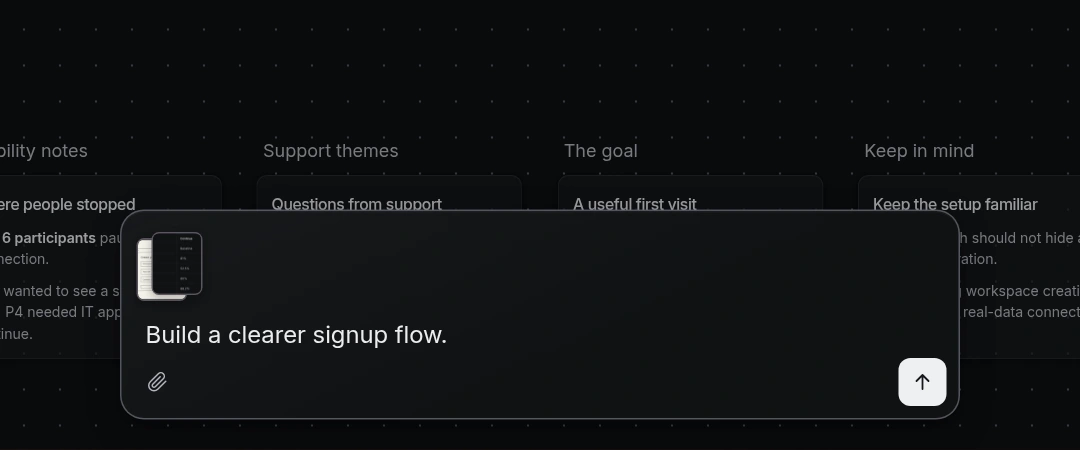
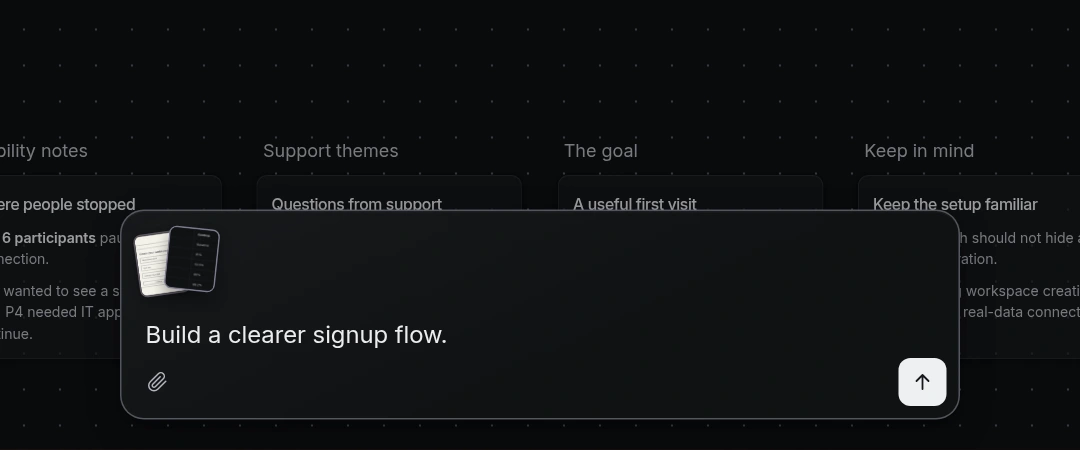
Restore collapsed fan and prevent hover clipping

Changed region(s): [[0.1222, 0.4978, 0.2139, 0.6844]]

diff --git a/studies/jarwiz-selection-stack/top-stack.css b/studies/jarwiz-selection-stack/top-stack.css
@@ -1,1 +1,1 @@
-.count-tabs{display:flex;gap:4px;padding:4px;border:1px solid #ffffff0d;border-radius:12px;background:#1c1c1c}.count-tabs button{padding:9px 20px;border:0;border-radius:8px;background:none;color:#969696;font-size:14px;transition:background .16s,color .16s}.count-tabs button[aria-pressed=true]{background:#303030;color:#f0f0f0}.count-hint{font-size:13px;color:#929292}.review-toolbar{margin-bottom:20px}.top-context{display:flex;align-items:center;min-height:54px;margin-bottom:8px}.top-stack{position:relative;min-width:0;max-width:100%}.top-stack[hidden]{display:none}.stack-summary{display:flex;align-items:center;gap:10px;min-height:54px;max-width:100%;padding:0 4px 0 0;border:0;border-radius:8px;background:none;text-align:left;color:#d7d8de}.stack-summary:hover .stack-label,.stack-summary[aria-expanded=true] .stack-label{color:#f1eff5}.stack-summary>svg{flex:0 0 12px;margin-left:2px;color:#94949f;transition:transform .18s}.stack-summary[aria-expanded=true]>svg{transform:rotate(180deg)}.mini-stack{position:relative;display:block;flex:0 0 auto;height:52px;width:64px;isolation:isolate}.top-stack[data-size=one] .mini-stack{width:44px}.top-stack[data-size=two] .mini-stack{width:54px}.stack-preview,.stack-tail{position:absolute;top:9px;width:34px;height:42px;border:1px solid #5b5660;border-radius:5px;box-shadow:0 2px 6px #0004;background:#25262b;pointer-events:auto}.stack-preview img{position:static;transform:none;box-shadow:none;border:0;display:block;width:100%;height:100%;object-fit:cover;object-position:top;border-radius:4px}.stack-preview:nth-child(1){left:2px;top:9px;z-index:1}.stack-preview:nth-child(2){left:12px;top:5px;z-index:2}.stack-preview:nth-child(3),.stack-tail{left:22px;top:1px;z-index:3}.top-stack[data-size=one] .stack-preview{left:2px}.top-stack[data-size=two] .stack-preview:nth-child(2){left:12px;top:5px}.stack-tail{display:grid;place-items:center;background:linear-gradient(155deg,#36343d,#27272e);font-size:12px;line-height:18px;font-weight:500;color:#eee9f5}.stack-copy{display:flex;flex-direction:column;gap:2px;min-width:0;max-width:330px}.stack-label{font:450 13px/18px 'Inter Variable',Arial,sans-serif;color:#d6d6df;white-space:nowrap}.stack-detail{font:400 11px/16px 'Inter Variable',Arial,sans-serif;color:#92949e;white-space:normal;text-wrap:pretty}.composer-footer .scope[hidden]{display:none}.stack-summary{gap:0;width:64px}.top-stack[data-size=one] .stack-summary{width:44px}.top-stack[data-size=two] .stack-summary{width:54px}.stack-preview,.stack-tail{transition:transform .2s cubic-bezier(.22,1,.36,1),border-color .16s,box-shadow .16s}.stack-preview:hover,.stack-tail:hover,.stack-summary:focus-visible .stack-preview:last-child,.stack-summary:focus-visible .stack-tail{transform:translateY(-3px);border-color:#b7b0d299;box-shadow:0 5px 9px #0005}.single-dismiss{left:29px;right:auto;top:1px;width:16px;height:16px;border-radius:5px}.single-dismiss[hidden]{display:none}.top-stack[data-size=one]:hover .single-dismiss,.top-stack[data-size=one]:focus-within .single-dismiss{opacity:1;pointer-events:auto}.context-popover{position:absolute;left:8px;bottom:calc(100% + 2px);width:70px;max-width:70px;max-height:var(--context-space,500px);padding:0;border:0;border-radius:0;background:none;box-shadow:none;transform:none}.context-popover:not([hidden]){display:flex;flex-direction:column;animation:vertical-dock-in .16s ease-out both}#context-list{display:flex;flex-direction:column;align-items:center;flex:0 1 auto;min-height:0;gap:8px;padding:12px 10px 8px;max-height:calc(var(--context-space,500px) - 2px);max-width:100%;overflow-x:hidden;overflow-y:auto;scrollbar-width:none;overscroll-behavior-y:contain}#context-list::-webkit-scrollbar{display:none}.context-entry{position:relative;display:block;flex:0 0 60px;width:48px;height:60px;padding:0;background:none;border-radius:7px}.context-entry:hover,.context-entry.is-hot{background:none}.entry-preview{position:relative;width:48px;height:60px;border:1px solid #ffffff20;border-radius:7px;background:#111214;box-shadow:0 2px 5px #0003;transform-origin:center;transition:transform .18s cubic-bezier(.22,1,.36,1),border-color .14s}.entry-preview img{display:block;width:100%;height:100%;object-fit:cover;object-position:top;border:0;border-radius:6px}.context-entry:hover .entry-preview,.context-entry:focus-within .entry-preview,.context-entry.is-hot .entry-preview{transform:translateY(-2px) scale(1.045);border-color:#b7b0d299}.preview-dismiss{position:absolute;right:-5px;top:-5px;z-index:2;display:grid;place-items:center;width:18px;height:18px;border:1px solid #635d70;border-radius:5px;background:#26262df5;color:#eee9f3;padding:0;opacity:0;pointer-events:none;transition:opacity .12s,background .12s}.preview-dismiss svg{width:10px;height:10px}.preview-dismiss:hover{background:#403b49}.preview-dismiss::after{content:"";position:absolute;inset:-3px}.context-entry:hover .preview-dismiss,.context-entry:focus-within .preview-dismiss,.context-entry.is-hot .preview-dismiss{opacity:1;pointer-events:auto}.is-arranging .preview-dismiss{opacity:0!important;pointer-events:none!important}#dock-labels{position:absolute;inset:0;pointer-events:none;transition:opacity .12s}.is-arranging #dock-labels{opacity:0}.dock-name{pointer-events:auto;cursor:default;position:absolute;right:calc(100% + 5px);width:max-content;max-width:var(--label-width,180px);padding:4px 8px;transform:translateY(-50%);border:1px solid #ffffff1a;border-radius:5px;background:#202127db;color:#d7d5df;font:400 11px/16px 'Inter Variable',Arial,sans-serif;white-space:normal;box-shadow:0 2px 5px #0003}.dock-name.is-hot{color:#fff;background:#2b2932ee;border-color:#b7b0d24d}.dock-name[hidden]{display:none}.context-popover[data-labels=right] .dock-name{left:calc(100% + 5px);right:auto}.stack-examples{display:grid;grid-template-columns:repeat(3,1fr);gap:24px;margin-top:48px}.example-image{display:block;padding:0;width:100%;border:1px solid #ffffff0c;background:#202123;border-radius:12px;overflow:hidden}.example-image:hover{border-color:#ffffff30}.example-image img{display:block;width:100%;height:auto;aspect-ratio:2.4;object-fit:cover}.stack-examples h2{margin:16px 0 6px;font-size:17px;line-height:24px;font-weight:400}.stack-examples p{font-size:14px;line-height:22px;color:#929292}@keyframes vertical-dock-in{from{opacity:0}to{opacity:1}}@media(max-width:650px){.review-toolbar{gap:10px}.count-tabs{width:100%}.count-tabs button{flex:1;padding:9px 12px}.count-hint{font-size:12px}.stack-summary{gap:8px}.stack-copy{max-width:none}.top-context{min-height:56px}.stack-examples{grid-template-columns:1fr;gap:28px;margin-top:32px}.review-footer{font-size:12px}.page-header p{max-width:320px}}@media(hover:none){.preview-dismiss{opacity:1;pointer-events:auto}}@media(prefers-reduced-motion:reduce){.context-popover{animation:none!important}.entry-preview{transition:none!important}}
+.count-tabs{display:flex;gap:4px;padding:4px;border:1px solid #ffffff0d;border-radius:12px;background:#1c1c1c}.count-tabs button{padding:9px 20px;border:0;border-radius:8px;background:none;color:#969696;font-size:14px;transition:background .16s,color .16s}.count-tabs button[aria-pressed=true]{background:#303030;color:#f0f0f0}.count-hint{font-size:13px;color:#929292}.review-toolbar{margin-bottom:20px}.top-context{display:flex;align-items:center;min-height:54px;margin-bottom:8px}.top-stack{position:relative;min-width:0;max-width:100%}.top-stack[hidden]{display:none}.stack-summary{display:flex;align-items:center;gap:10px;min-height:54px;max-width:100%;padding:0 4px 0 0;border:0;border-radius:8px;background:none;text-align:left;color:#d7d8de}.stack-summary:hover .stack-label,.stack-summary[aria-expanded=true] .stack-label{color:#f1eff5}.stack-summary>svg{flex:0 0 12px;margin-left:2px;color:#94949f;transition:transform .18s}.stack-summary[aria-expanded=true]>svg{transform:rotate(180deg)}.mini-stack{position:relative;display:block;flex:0 0 auto;height:52px;width:76px;isolation:isolate}.top-stack[data-size=one] .mini-stack{width:44px}.top-stack[data-size=two] .mini-stack{width:62px}.stack-preview,.stack-tail{position:absolute;top:5px;width:34px;height:42px;border:1px solid #5b5660;border-radius:5px;box-shadow:0 2px 6px #0004;background:#25262b;pointer-events:auto}.stack-preview img{position:static;transform:none;box-shadow:none;border:0;display:block;width:100%;height:100%;object-fit:cover;object-position:top;border-radius:4px}.stack-preview:nth-child(1){left:2px;z-index:1;--fan-angle:-8deg}.stack-preview:nth-child(2){left:18px;z-index:2;--fan-angle:1deg}.stack-preview:nth-child(3),.stack-tail{left:36px;z-index:3;--fan-angle:8deg}.top-stack[data-size=one] .stack-preview{left:2px;--fan-angle:0deg}.top-stack[data-size=two] .stack-preview:nth-child(2){left:22px;--fan-angle:6deg}.top-stack.is-open .mini-stack .stack-preview,.top-stack.is-open .mini-stack .stack-tail{--fan-angle:0deg}.context-region:not(.is-hidden)>.context-clip{overflow:visible}.stack-tail{display:grid;place-items:center;background:linear-gradient(155deg,#36343d,#27272e);font-size:12px;line-height:18px;font-weight:500;color:#eee9f5}.stack-copy{display:flex;flex-direction:column;gap:2px;min-width:0;max-width:330px}.stack-label{font:450 13px/18px 'Inter Variable',Arial,sans-serif;color:#d6d6df;white-space:nowrap}.stack-detail{font:400 11px/16px 'Inter Variable',Arial,sans-serif;color:#92949e;white-space:normal;text-wrap:pretty}.composer-footer .scope[hidden]{display:none}.stack-summary{gap:0;width:76px}.top-stack[data-size=one] .stack-summary{width:44px}.top-stack[data-size=two] .stack-summary{width:62px}.stack-preview,.stack-tail{transform:rotate(var(--fan-angle,0deg));transition:transform .2s cubic-bezier(.22,1,.36,1),border-color .16s,box-shadow .16s}.stack-preview:hover,.stack-tail:hover,.stack-summary:focus-visible .stack-preview:last-child,.stack-summary:focus-visible .stack-tail{transform:translateY(-3px) rotate(var(--fan-angle,0deg));border-color:#b7b0d299;box-shadow:0 5px 9px #0005}.single-dismiss[hidden]{display:none}.top-stack[data-size=one]:hover .single-dismiss,.top-stack[data-size=one]:focus-within .single-dismiss{opacity:1;pointer-events:auto}.context-popover{position:absolute;left:8px;bottom:calc(100% + 2px);width:70px;max-width:70px;max-height:var(--context-space,500px);padding:0;border:0;border-radius:0;background:none;box-shadow:none;transform:none}.context-popover:not([hidden]){display:flex;flex-direction:column;animation:vertical-dock-in .16s ease-out both}#context-list{display:flex;flex-direction:column;align-items:center;flex:0 1 auto;min-height:0;gap:8px;padding:12px 10px 8px;max-height:calc(var(--context-space,500px) - 2px);max-width:100%;overflow-x:hidden;overflow-y:auto;scrollbar-width:none;overscroll-behavior-y:contain}#context-list::-webkit-scrollbar{display:none}.context-entry{position:relative;display:block;flex:0 0 60px;width:48px;height:60px;padding:0;background:none;border-radius:7px}.context-entry:hover,.context-entry.is-hot{background:none}.entry-preview{position:relative;width:48px;height:60px;border:1px solid #ffffff20;border-radius:7px;background:#111214;box-shadow:0 2px 5px #0003;transform-origin:center;transition:transform .18s cubic-bezier(.22,1,.36,1),border-color .14s}.entry-preview img{display:block;width:100%;height:100%;object-fit:cover;object-position:top;border:0;border-radius:6px}.context-entry:hover .entry-preview,.context-entry:focus-within .entry-preview,.context-entry.is-hot .entry-preview{transform:translateY(-2px) scale(1.045);border-color:#b7b0d299}.preview-dismiss{position:absolute;right:-5px;top:-5px;z-index:2;display:grid;place-items:center;width:18px;height:18px;border:1px solid #635d70;border-radius:5px;background:#26262df5;color:#eee9f3;padding:0;opacity:0;pointer-events:none;transition:opacity .12s,background .12s}.preview-dismiss.single-dismiss{left:29px;right:auto;top:1px;width:16px;height:16px;border-radius:5px}.preview-dismiss svg{width:10px;height:10px}.preview-dismiss:hover{background:#403b49}.preview-dismiss::after{content:"";position:absolute;inset:-3px}.context-entry:hover .preview-dismiss,.context-entry:focus-within .preview-dismiss,.context-entry.is-hot .preview-dismiss{opacity:1;pointer-events:auto}.is-arranging .preview-dismiss{opacity:0!important;pointer-events:none!important}#dock-labels{position:absolute;inset:0;pointer-events:none;transition:opacity .12s}.is-arranging #dock-labels{opacity:0}.dock-name{pointer-events:auto;cursor:default;position:absolute;right:calc(100% + 5px);width:max-content;max-width:var(--label-width,180px);padding:4px 8px;transform:translateY(-50%);border:1px solid #ffffff1a;border-radius:5px;background:#202127db;color:#d7d5df;font:400 11px/16px 'Inter Variable',Arial,sans-serif;white-space:normal;box-shadow:0 2px 5px #0003}.dock-name.is-hot{color:#fff;background:#2b2932ee;border-color:#b7b0d24d}.dock-name[hidden]{display:none}.context-popover[data-labels=right] .dock-name{left:calc(100% + 5px);right:auto}.stack-examples{display:grid;grid-template-columns:repeat(3,1fr);gap:24px;margin-top:48px}.example-image{display:block;padding:0;width:100%;border:1px solid #ffffff0c;background:#202123;border-radius:12px;overflow:hidden}.example-image:hover{border-color:#ffffff30}.example-image img{display:block;width:100%;height:auto;aspect-ratio:2.4;object-fit:cover}.stack-examples h2{margin:16px 0 6px;font-size:17px;line-height:24px;font-weight:400}.stack-examples p{font-size:14px;line-height:22px;color:#929292}@keyframes vertical-dock-in{from{opacity:0}to{opacity:1}}@media(max-width:650px){.review-toolbar{gap:10px}.count-tabs{width:100%}.count-tabs button{flex:1;padding:9px 12px}.count-hint{font-size:12px}.stack-summary{gap:8px}.stack-copy{max-width:none}.top-context{min-height:56px}.stack-examples{grid-template-columns:1fr;gap:28px;margin-top:32px}.review-footer{font-size:12px}.page-header p{max-width:320px}}@media(hover:none){.preview-dismiss{opacity:1;pointer-events:auto}}@media(prefers-reduced-motion:reduce){.context-popover{animation:none!important}.entry-preview{transition:none!important}}

diff --git a/studies/jarwiz-selection-stack/index.html b/studies/jarwiz-selection-stack/index.html
@@ -1,11 +1,11 @@
-<!doctype html><html lang="en"><head><meta charset="utf-8"><meta name="viewport" content="width=device-width,initial-scale=1"><meta name="robots" content="noindex"><title>Jarwiz · Stack above the prompt</title><link rel="stylesheet" href="./style.css?v=1"><link rel="stylesheet" href="./top-stack.css?v=anchored-8"><link rel="stylesheet" href="./bloom.css"></head><body><main>
-<header class="page-header"><div><h1>A bigger stack, above the prompt.</h1><p>Click to arrange the cards above the stack. Click the stack again to collapse.</p></div><a class="case-link" href="../jarwiz-selection-composer/">Previous options ↗</a></header>
+<!doctype html><html lang="en"><head><meta charset="utf-8"><meta name="viewport" content="width=device-width,initial-scale=1"><meta name="robots" content="noindex"><title>Jarwiz · Stack above the prompt</title><link rel="stylesheet" href="./style.css?v=1"><link rel="stylesheet" href="./top-stack.css?v=fan-9"><link rel="stylesheet" href="./bloom.css"></head><body><main>
+<header class="page-header"><div><h1>A bigger stack, above the prompt.</h1><p>Click the fan to straighten its cards into a column. Click again to collapse.</p></div><a class="case-link" href="../jarwiz-selection-composer/">Previous options ↗</a></header>
 <div class="review-toolbar"><div class="count-tabs" role="group" aria-label="Preview selected card count"><button data-count="1" aria-pressed="true">1 card</button><button data-count="2" aria-pressed="false">2 cards</button><button data-count="5" aria-pressed="false">5 cards</button></div><p class="count-hint">Click the stack to arrange its cards vertically.</p></div>
 <div id="study-panel" aria-label="Selected-card composer prototype" class="study-frame"><div class="browser"><div class="chrome" aria-hidden="true"><i></i><i></i><i></i></div><div class="app" id="app" data-variant="top"><div class="tl-canvas" id="canvas"><div class="tl-background"></div><div class="selection-group" aria-hidden="true"></div><div id="sources" role="listbox" aria-label="Board cards" aria-multiselectable="true"></div><div id="marquee" aria-hidden="true"></div></div><div class="product-logo" aria-label="Jarwiz"><svg width="19" height="19" viewBox="0 0 24 24" aria-hidden="true"><path d="M12 1c1.7 7.4 3.6 9.3 11 11-7.4 1.7-9.3 3.6-11 11C10.3 15.6 8.4 13.7 1 12c7.4-1.7 9.3-3.6 11-11Z" fill="currentColor"/></svg></div>
 <form class="composer jz-promptbar" id="composer" aria-label="Ask Jarwiz"><div id="context-region" class="context-region"><div class="context-clip"><div class="top-context"><div class="top-stack" id="stack-group"><button class="stack-summary" id="stack-control" type="button" aria-expanded="false" aria-controls="context-popover"><span class="mini-stack" id="stack-previews" aria-hidden="true"></span></button><button class="preview-dismiss single-dismiss" id="single-dismiss" type="button" hidden></button></div></div></div></div><div class="writing"><textarea id="prompt" rows="1" aria-label="Your prompt" placeholder="What would you like to make from these?">Build a clearer signup flow.</textarea></div><div class="composer-footer"><button class="icon-button attach" type="button" aria-label="Attach a file" title="File upload is outside this selection study"><svg width="14" height="14" viewBox="0 0 24 24" fill="none" stroke="currentColor" stroke-width="1.7" stroke-linecap="round" stroke-linejoin="round" aria-hidden="true"><path d="m21.44 11.05-9.19 9.19a6 6 0 0 1-8.49-8.49l9.19-9.19a4 4 0 0 1 5.66 5.66l-9.2 9.19a2 2 0 0 1-2.83-2.83l8.49-8.48"/></svg></button><span class="scope" id="scope" hidden>Board context</span><span class="footer-space"></span><button class="send" id="send" type="submit" aria-label="Send prompt" title="Preview this request"><span class="send-label">Generating</span><svg class="send-arrow" width="16" height="16" viewBox="0 0 24 24" fill="none" stroke="currentColor" stroke-width="1.8" stroke-linecap="round" stroke-linejoin="round" aria-hidden="true"><path d="M12 19V5m-6 6 6-6 6 6"/></svg><span class="send-stop" aria-hidden="true"></span></button></div><div class="context-popover" id="context-popover" hidden><div id="context-list" role="list" aria-label="Selected cards"></div><div id="dock-labels" aria-hidden="true"></div></div></form>
 </div></div></div>
 
 <div class="review-footer"><p>Titles sit beside the open stack. Your prompt stays intact.</p><p id="review-status" role="status">1 card selected</p></div>
-<section class="stack-examples" aria-label="Single, two and more than three selected cards"><article><button class="example-image" data-count="1" aria-label="Try one card"><img src="./assets/one-card.webp?v=anchored-8" alt="One selected card is shown as a single larger preview above the prompt" width="720" height="300"></button><h2>One card</h2><p>Hover the preview to remove it directly.</p></article><article><button class="example-image" data-count="2" aria-label="Try two cards"><img src="./assets/two-cards.webp?v=anchored-8" alt="Two selected cards overlap in a straight stack above the prompt" width="720" height="300"></button><h2>Two cards</h2><p>Both previews stay stacked, including on hover.</p></article><article><button class="example-image" data-count="5" aria-label="Try five cards"><img src="./assets/five-cards.webp?v=anchored-8" alt="A five-card selection shows two source previews and a plus-three card above the prompt" width="720" height="300"></button><h2>More than three</h2><p>Click +3 to open. The bottom stack stays in place to close.</p></article></section>
+<section class="stack-examples" aria-label="Single, two and more than three selected cards"><article><button class="example-image" data-count="1" aria-label="Try one card"><img src="./assets/one-card.webp?v=fan-9" alt="One selected card is shown as a single larger preview above the prompt" width="720" height="300"></button><h2>One card</h2><p>Hover the preview to remove it directly.</p></article><article><button class="example-image" data-count="2" aria-label="Try two cards"><img src="./assets/two-cards.webp?v=fan-9" alt="Two selected cards form a compact fan above the prompt" width="720" height="300"></button><h2>Two cards</h2><p>A compact fan that straightens when opened.</p></article><article><button class="example-image" data-count="5" aria-label="Try five cards"><img src="./assets/five-cards.webp?v=fan-9" alt="A five-card selection shows two source previews and a plus-three card above the prompt" width="720" height="300"></button><h2>More than three</h2><p>Click +3 to open. The bottom stack stays in place to close.</p></article></section>
 <p class="study-note">This is an interaction preview. Send shows which cards would be used; no model is called. The product and the next video are unchanged.</p>
-</main><script src="./cards.js"></script><script src="./interaction.js?v=anchored-8"></script></body></html>
+</main><script src="./cards.js"></script><script src="./interaction.js?v=fan-9"></script></body></html>

diff --git a/studies/jarwiz-selection-stack/interaction.js b/studies/jarwiz-selection-stack/interaction.js
@@ -8,11 +8,11 @@ let arranging=false,arrangement=0;
 function closePopover(){arrangement++;arranging=false;popover.classList.remove('is-arranging');list.getAnimations({subtree:true}).forEach(a=>a.cancel());popover.hidden=true;stack.setAttribute('aria-expanded','false');stackGroup.classList.remove('is-open')}
 function openPopover(){
  if(!selected.size)return;
- const origins=[...previews.children].map(el=>({id:el.dataset.context,rect:el.getBoundingClientRect()}));
+ const origins=[...previews.children].map(el=>{const m=new DOMMatrixReadOnly(getComputedStyle(el).transform);return{id:el.dataset.context,rect:el.getBoundingClientRect(),width:el.offsetWidth,height:el.offsetHeight,angle:Math.atan2(m.b,m.a)*180/Math.PI}});
  popover.hidden=false;stack.setAttribute('aria-expanded','true');stackGroup.classList.add('is-open');list.scrollTop=0;placeComposer();
  if(reduced.matches)return;
  const run=++arrangement;arranging=true;popover.classList.add('is-arranging');
- const animations=[...list.children].map((entry,i)=>{const target=entry.getBoundingClientRect(),source=(origins.find(o=>o.id===entry.dataset.context)||origins.at(-1)).rect,dx=source.x+source.width/2-target.x-target.width/2,dy=source.y+source.height/2-target.y-target.height/2;return entry.animate([{transform:`translate(${dx}px,${dy}px) rotate(0deg) scale(${source.width/target.width},${source.height/target.height})`,opacity:.9},{transform:'translate(0,0) rotate(0deg) scale(1)',opacity:1}],{duration:380,delay:(list.children.length-1-i)*18,easing:'cubic-bezier(.22,1,.36,1)'})});
+ const animations=[...list.children].map((entry,i)=>{const target=entry.getBoundingClientRect(),origin=origins.find(o=>o.id===entry.dataset.context)||origins.at(-1),source=origin.rect,dx=source.x+source.width/2-target.x-target.width/2,dy=source.y+source.height/2-target.y-target.height/2;return entry.animate([{transform:`translate(${dx}px,${dy}px) rotate(${origin.angle}deg) scale(${origin.width/target.width},${origin.height/target.height})`,opacity:.9},{transform:'translate(0,0) rotate(0deg) scale(1)',opacity:1}],{duration:380,delay:(list.children.length-1-i)*18,easing:'cubic-bezier(.22,1,.36,1)'})});
  Promise.allSettled(animations.map(a=>a.finished)).then(()=>{if(run===arrangement){arranging=false;popover.classList.remove('is-arranging');positionDockLabels()}});
 }
 function changeCard(id,add){if(busy)finish();if(add){selected.has(id)?selected.delete(id):selected.add(id)}else selected=new Set([id]);render()}
